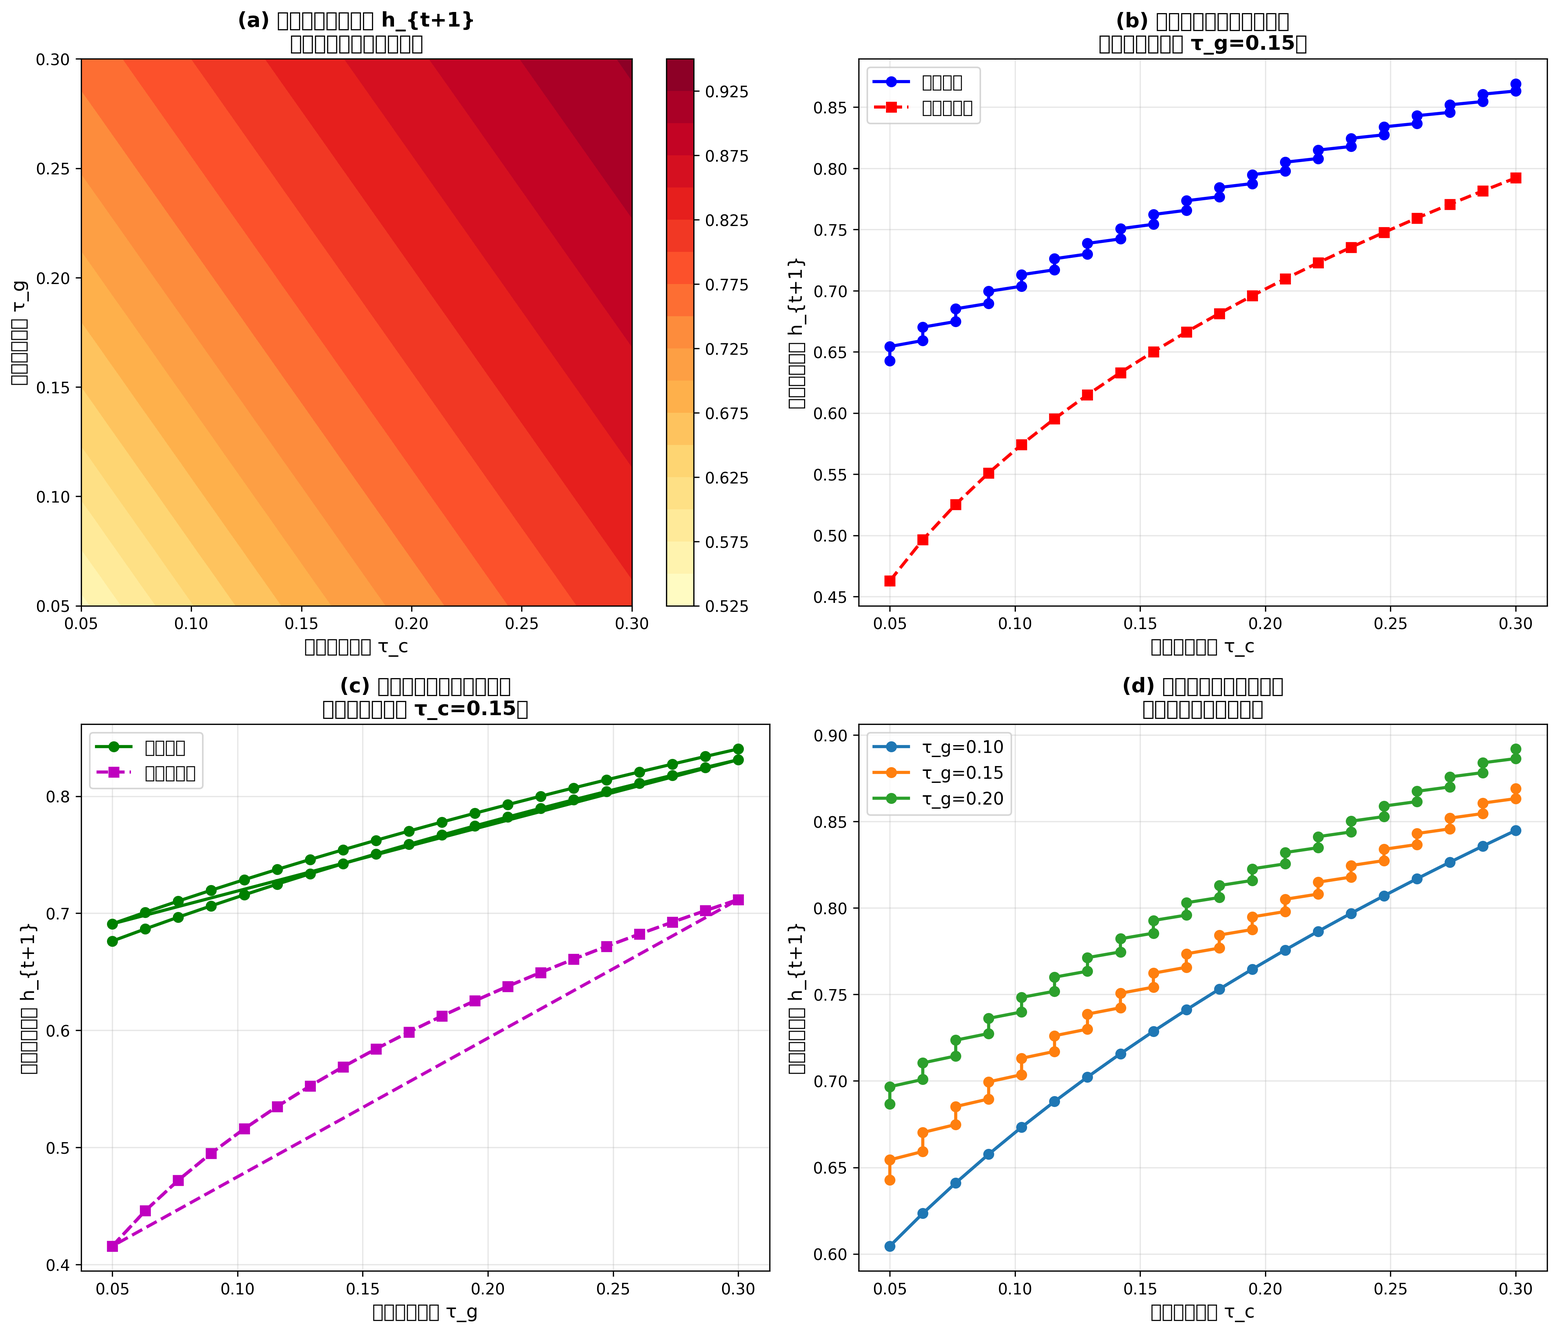
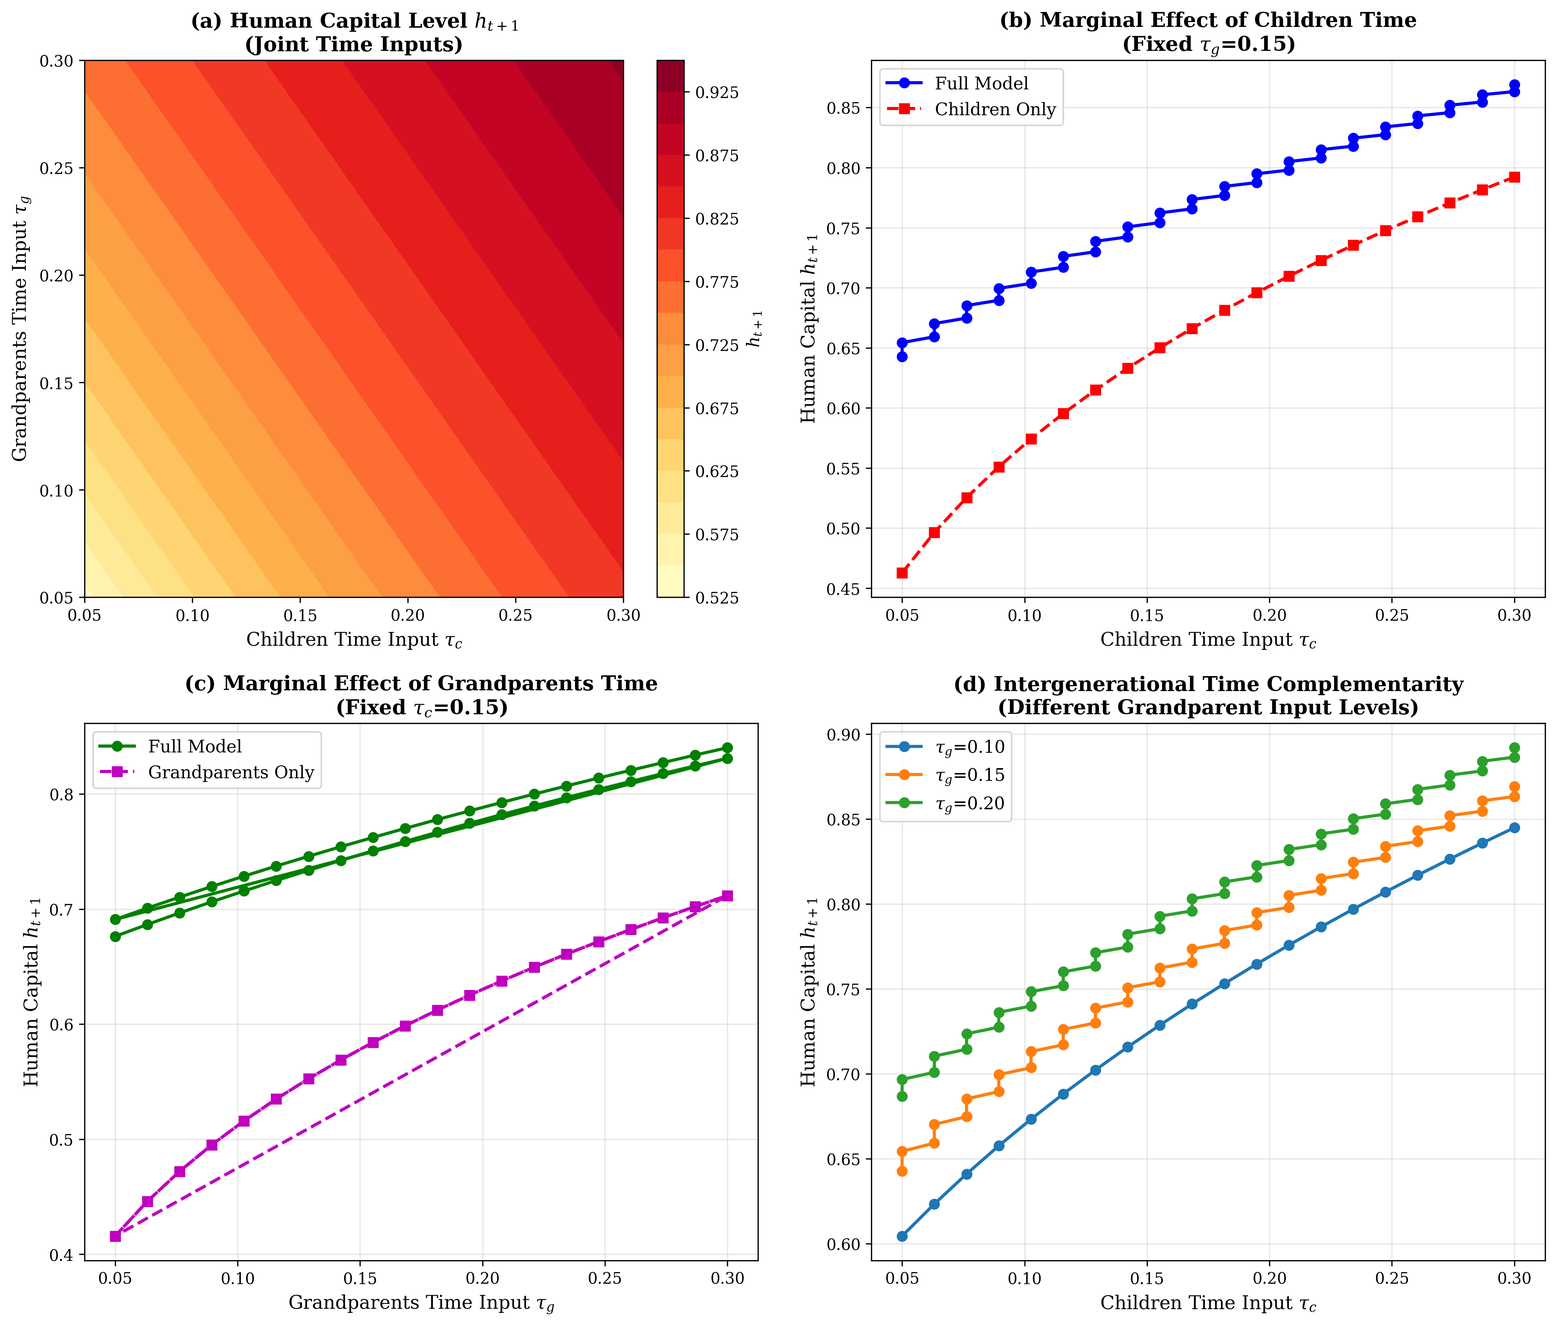
Update figures with English labels and fix axis display issues
Changes:
- Replace all Chinese labels with English in visualization functions
- Use LaTeX-style math text for Greek symbols (tau, rho, theta, etc.)
- Fix matplotlib font settings to avoid Chinese character display issues
- Update all plot titles, axis labels, and legends to English
- Improve figure clarity with proper mathematical notation

Figure updates:
- Figure 1: Human Capital Accumulation Sensitivity Analysis
  * (a) Heatmap showing h_{t+1} vs tau_c and tau_g
  * (b) Marginal effect of children time input
  * (c) Marginal effect of grandparents time input
  * (d) Intergenerational time complementarity

- Figure 2: Mediation Effects Decomposition
  * (a) Individual mediation effects over aging
  * (b) Total effect on saving rate
  * (c) Evolution of endogenous support variables
  * (d) Cumulative contribution of mediation effects

- Figure 3: Saving Rate and Population Structure
  * (a) Saving rate vs old-age dependency ratio
  * (b) Saving rate vs child dependency ratio

All visualizations now display correctly without font warnings.

diff --git a/model_simulation.py b/model_simulation.py
@@ -10,9 +10,10 @@ from matplotlib import font_manager
 import pandas as pd
 from scipy.optimize import fsolve
 
-# 设置中文字体支持
-matplotlib.rcParams['font.sans-serif'] = ['SimHei', 'DejaVu Sans']
+# Set matplotlib to use LaTeX-style math text
 matplotlib.rcParams['axes.unicode_minus'] = False
+plt.rcParams['font.family'] = 'serif'
+plt.rcParams['mathtext.fontset'] = 'dejavuserif'
 
 class OLGModel:
     """
@@ -322,239 +323,234 @@ class OLGModel:
 
 def plot_human_capital_sensitivity(df_hc):
     """
-    可视化1：人力资本积累的时间投入敏感性
+    Visualization 1: Human Capital Accumulation Sensitivity to Time Inputs
     """
     fig, axes = plt.subplots(2, 2, figsize=(14, 12))
 
-    # 准备3D数据
+    # Prepare 3D data
     tau_c_unique = sorted(df_hc['tau_c'].unique())
     tau_g_unique = sorted(df_hc['tau_g'].unique())
 
-    # 子图1：完整模型的热力图
+    # Subplot 1: Heatmap of full model
     pivot_full = df_hc.pivot_table(values='h_t_plus_1', index='tau_g', columns='tau_c')
     im1 = axes[0, 0].contourf(pivot_full.columns, pivot_full.index, pivot_full.values, levels=15, cmap='YlOrRd')
-    axes[0, 0].set_xlabel('子代时间投入 τ_c', fontsize=12)
-    axes[0, 0].set_ylabel('父代时间投入 τ_g', fontsize=12)
-    axes[0, 0].set_title('(a) 人力资本积累水平 h_{t+1}\n（子代与父代共同投入）', fontsize=13, fontweight='bold')
-    plt.colorbar(im1, ax=axes[0, 0])
+    axes[0, 0].set_xlabel(r'Children Time Input $\tau_c$', fontsize=12)
+    axes[0, 0].set_ylabel(r'Grandparents Time Input $\tau_g$', fontsize=12)
+    axes[0, 0].set_title(r'(a) Human Capital Level $h_{t+1}$' + '\n(Joint Time Inputs)', fontsize=13, fontweight='bold')
+    cbar1 = plt.colorbar(im1, ax=axes[0, 0])
+    cbar1.set_label(r'$h_{t+1}$', fontsize=11)
 
-    # 子图2：边际效应对比
-    # 固定一个维度，观察另一个维度的影响
+    # Subplot 2: Marginal effect comparison
     tau_g_fixed = 0.15
     df_fixed_g = df_hc[np.isclose(df_hc['tau_g'], tau_g_fixed, atol=0.01)]
-    axes[0, 1].plot(df_fixed_g['tau_c'], df_fixed_g['h_t_plus_1'], 'b-o', linewidth=2, label='完整模型')
-    axes[0, 1].plot(df_fixed_g['tau_c'], df_fixed_g['h_t_plus_1_only_c'], 'r--s', linewidth=2, label='仅子代投入')
-    axes[0, 1].set_xlabel('子代时间投入 τ_c', fontsize=12)
-    axes[0, 1].set_ylabel('人力资本水平 h_{t+1}', fontsize=12)
-    axes[0, 1].set_title(f'(b) 子代时间投入的边际效应\n（固定父代投入 τ_g={tau_g_fixed}）', fontsize=13, fontweight='bold')
+    axes[0, 1].plot(df_fixed_g['tau_c'], df_fixed_g['h_t_plus_1'], 'b-o', linewidth=2, label='Full Model')
+    axes[0, 1].plot(df_fixed_g['tau_c'], df_fixed_g['h_t_plus_1_only_c'], 'r--s', linewidth=2, label='Children Only')
+    axes[0, 1].set_xlabel(r'Children Time Input $\tau_c$', fontsize=12)
+    axes[0, 1].set_ylabel(r'Human Capital $h_{t+1}$', fontsize=12)
+    axes[0, 1].set_title(f'(b) Marginal Effect of Children Time\n' + r'(Fixed $\tau_g$=' + f'{tau_g_fixed})', fontsize=13, fontweight='bold')
     axes[0, 1].legend(fontsize=11)
     axes[0, 1].grid(True, alpha=0.3)
 
-    # 子图3：互补性分析
+    # Subplot 3: Complementarity analysis
     tau_c_fixed = 0.15
     df_fixed_c = df_hc[np.isclose(df_hc['tau_c'], tau_c_fixed, atol=0.01)]
-    axes[1, 0].plot(df_fixed_c['tau_g'], df_fixed_c['h_t_plus_1'], 'g-o', linewidth=2, label='完整模型')
-    axes[1, 0].plot(df_fixed_c['tau_g'], df_fixed_c['h_t_plus_1_only_g'], 'm--s', linewidth=2, label='仅父代投入')
-    axes[1, 0].set_xlabel('父代时间投入 τ_g', fontsize=12)
-    axes[1, 0].set_ylabel('人力资本水平 h_{t+1}', fontsize=12)
-    axes[1, 0].set_title(f'(c) 父代时间投入的边际效应\n（固定子代投入 τ_c={tau_c_fixed}）', fontsize=13, fontweight='bold')
+    axes[1, 0].plot(df_fixed_c['tau_g'], df_fixed_c['h_t_plus_1'], 'g-o', linewidth=2, label='Full Model')
+    axes[1, 0].plot(df_fixed_c['tau_g'], df_fixed_c['h_t_plus_1_only_g'], 'm--s', linewidth=2, label='Grandparents Only')
+    axes[1, 0].set_xlabel(r'Grandparents Time Input $\tau_g$', fontsize=12)
+    axes[1, 0].set_ylabel(r'Human Capital $h_{t+1}$', fontsize=12)
+    axes[1, 0].set_title(f'(c) Marginal Effect of Grandparents Time\n' + r'(Fixed $\tau_c$=' + f'{tau_c_fixed})', fontsize=13, fontweight='bold')
     axes[1, 0].legend(fontsize=11)
     axes[1, 0].grid(True, alpha=0.3)
 
-    # 子图4：效率差异展示（θ_c vs θ_g）
-    # 计算边际产出
-    df_sorted = df_hc.sort_values('tau_c')
+    # Subplot 4: Efficiency difference (θ_c vs θ_g)
     tau_g_levels = [0.10, 0.15, 0.20]
     for tau_g_val in tau_g_levels:
         df_subset = df_hc[np.isclose(df_hc['tau_g'], tau_g_val, atol=0.01)]
         df_subset = df_subset.sort_values('tau_c')
         axes[1, 1].plot(df_subset['tau_c'], df_subset['h_t_plus_1'],
-                       linewidth=2, marker='o', label=f'τ_g={tau_g_val:.2f}')
+                       linewidth=2, marker='o', label=r'$\tau_g$=' + f'{tau_g_val:.2f}')
 
-    axes[1, 1].set_xlabel('子代时间投入 τ_c', fontsize=12)
-    axes[1, 1].set_ylabel('人力资本水平 h_{t+1}', fontsize=12)
-    axes[1, 1].set_title('(d) 代际时间投入的互补性\n（不同父代投入水平）', fontsize=13, fontweight='bold')
+    axes[1, 1].set_xlabel(r'Children Time Input $\tau_c$', fontsize=12)
+    axes[1, 1].set_ylabel(r'Human Capital $h_{t+1}$', fontsize=12)
+    axes[1, 1].set_title('(d) Intergenerational Time Complementarity\n(Different Grandparent Input Levels)', fontsize=13, fontweight='bold')
     axes[1, 1].legend(fontsize=11)
     axes[1, 1].grid(True, alpha=0.3)
 
     plt.tight_layout()
     plt.savefig('/home/user/econ/figure1_human_capital.png', dpi=300, bbox_inches='tight')
-    print("✓ 图1已保存: figure1_human_capital.png")
+    print("✓ Figure 1 saved: figure1_human_capital.png")
     return fig
 
 
 def plot_mediation_effects(df_med):
     """
-    可视化2：中介效应分解
+    Visualization 2: Mediation Effects Decomposition
     """
     fig, axes = plt.subplots(2, 2, figsize=(15, 12))
 
-    # 子图1：各中介效应的演变
-    axes[0, 0].plot(df_med['D_t'], df_med['direct'], 'b-o', linewidth=2.5, markersize=6, label='直接效应')
-    axes[0, 0].plot(df_med['D_t'], df_med['expenditure_med'], 'r--s', linewidth=2.5, markersize=6, label='赡养支出中介（负）')
-    axes[0, 0].plot(df_med['D_t'], df_med['care_time_med'], 'g-.^', linewidth=2.5, markersize=6, label='照料时间中介（正）')
-    axes[0, 0].plot(df_med['D_t'], df_med['risk_med'], 'm:d', linewidth=2.5, markersize=6, label='赡养风险中介（正）')
+    # Subplot 1: Evolution of each mediation effect
+    axes[0, 0].plot(df_med['D_t'], df_med['direct'], 'b-o', linewidth=2.5, markersize=6, label='Direct Effect')
+    axes[0, 0].plot(df_med['D_t'], df_med['expenditure_med'], 'r--s', linewidth=2.5, markersize=6, label='Support Expenditure (neg)')
+    axes[0, 0].plot(df_med['D_t'], df_med['care_time_med'], 'g-.^', linewidth=2.5, markersize=6, label='Care Time (pos)')
+    axes[0, 0].plot(df_med['D_t'], df_med['risk_med'], 'm:d', linewidth=2.5, markersize=6, label='Support Risk (pos)')
     axes[0, 0].axhline(y=0, color='black', linestyle='-', linewidth=0.8, alpha=0.5)
-    axes[0, 0].set_xlabel('赡养比 D_t', fontsize=12)
-    axes[0, 0].set_ylabel('对储蓄率的影响', fontsize=12)
-    axes[0, 0].set_title('(a) 老龄化的中介效应分解', fontsize=13, fontweight='bold')
+    axes[0, 0].set_xlabel(r'Old-Age Dependency Ratio $D_t$', fontsize=12)
+    axes[0, 0].set_ylabel(r'Effect on Saving Rate $\rho_t$', fontsize=12)
+    axes[0, 0].set_title('(a) Mediation Effects of Population Aging', fontsize=13, fontweight='bold')
     axes[0, 0].legend(fontsize=10, loc='best')
     axes[0, 0].grid(True, alpha=0.3)
 
-    # 子图2：总效应及其分解
-    axes[0, 1].plot(df_med['D_t'], df_med['total'], 'k-o', linewidth=3, markersize=7, label='总效应')
+    # Subplot 2: Total effect and its decomposition
+    axes[0, 1].plot(df_med['D_t'], df_med['total'], 'k-o', linewidth=3, markersize=7, label='Total Effect')
     axes[0, 1].fill_between(df_med['D_t'], 0, df_med['total'], alpha=0.2, color='gray')
     axes[0, 1].axhline(y=0, color='black', linestyle='-', linewidth=0.8)
-    axes[0, 1].set_xlabel('赡养比 D_t', fontsize=12)
-    axes[0, 1].set_ylabel('对储蓄率的总效应', fontsize=12)
-    axes[0, 1].set_title('(b) 老龄化对储蓄率的总效应', fontsize=13, fontweight='bold')
+    axes[0, 1].set_xlabel(r'Old-Age Dependency Ratio $D_t$', fontsize=12)
+    axes[0, 1].set_ylabel(r'Total Effect on $\rho_t$', fontsize=12)
+    axes[0, 1].set_title('(b) Total Effect of Aging on Saving Rate', fontsize=13, fontweight='bold')
     axes[0, 1].legend(fontsize=11)
     axes[0, 1].grid(True, alpha=0.3)
 
-    # 子图3：内生变量的演变
+    # Subplot 3: Evolution of endogenous variables
     ax3_1 = axes[1, 0]
     ax3_2 = ax3_1.twinx()
 
-    line1 = ax3_1.plot(df_med['D_t'], df_med['tau_o'], 'b-o', linewidth=2.5, markersize=6, label='赡养支出比例 τ_o')
-    line2 = ax3_1.plot(df_med['D_t'], df_med['tau_o_time'], 'r--s', linewidth=2.5, markersize=6, label='照料时间 τ_o')
-    line3 = ax3_2.plot(df_med['D_t'], df_med['p'], 'g-.^', linewidth=2.5, markersize=6, label='存活概率 p')
+    line1 = ax3_1.plot(df_med['D_t'], df_med['tau_o'], 'b-o', linewidth=2.5, markersize=6, label=r'Support Ratio $\tau_o$')
+    line2 = ax3_1.plot(df_med['D_t'], df_med['tau_o_time'], 'r--s', linewidth=2.5, markersize=6, label=r'Care Time $\tau_o^{time}$')
+    line3 = ax3_2.plot(df_med['D_t'], df_med['p'], 'g-.^', linewidth=2.5, markersize=6, label='Survival Prob. p')
 
-    ax3_1.set_xlabel('赡养比 D_t', fontsize=12)
-    ax3_1.set_ylabel('赡养支出与照料时间', fontsize=12, color='black')
-    ax3_2.set_ylabel('存活概率', fontsize=12, color='g')
-    ax3_1.set_title('(c) 内生赡养行为变量的演变', fontsize=13, fontweight='bold')
+    ax3_1.set_xlabel(r'Old-Age Dependency Ratio $D_t$', fontsize=12)
+    ax3_1.set_ylabel('Support Ratio & Care Time', fontsize=12, color='black')
+    ax3_2.set_ylabel('Survival Probability', fontsize=12, color='g')
+    ax3_1.set_title('(c) Evolution of Endogenous Support Variables', fontsize=13, fontweight='bold')
 
     lines = line1 + line2 + line3
     labels = [l.get_label() for l in lines]
     ax3_1.legend(lines, labels, fontsize=10, loc='upper left')
     ax3_1.grid(True, alpha=0.3)
 
-    # 子图4：堆叠面积图展示中介效应贡献
-    # 为了堆叠，需要将负值和正值分开
-    positive_effects = np.maximum(df_med['direct'], 0) + np.maximum(df_med['care_time_med'], 0) + np.maximum(df_med['risk_med'], 0)
-    negative_effects = np.minimum(df_med['expenditure_med'], 0)
-
-    axes[1, 1].fill_between(df_med['D_t'], 0, df_med['direct'], alpha=0.6, label='直接效应', color='#1f77b4')
+    # Subplot 4: Stacked area chart showing mediation contributions
+    axes[1, 1].fill_between(df_med['D_t'], 0, df_med['direct'], alpha=0.6, label='Direct Effect', color='#1f77b4')
     axes[1, 1].fill_between(df_med['D_t'], df_med['direct'],
                            df_med['direct'] + df_med['care_time_med'],
-                           alpha=0.6, label='照料时间中介', color='#2ca02c')
+                           alpha=0.6, label='Care Time Mediation', color='#2ca02c')
     axes[1, 1].fill_between(df_med['D_t'], df_med['direct'] + df_med['care_time_med'],
                            df_med['direct'] + df_med['care_time_med'] + df_med['risk_med'],
-                           alpha=0.6, label='赡养风险中介', color='#9467bd')
+                           alpha=0.6, label='Support Risk Mediation', color='#9467bd')
     axes[1, 1].fill_between(df_med['D_t'], 0, df_med['expenditure_med'],
-                           alpha=0.6, label='赡养支出中介', color='#d62728')
-    axes[1, 1].plot(df_med['D_t'], df_med['total'], 'k-', linewidth=2.5, label='总效应')
+                           alpha=0.6, label='Expenditure Mediation', color='#d62728')
+    axes[1, 1].plot(df_med['D_t'], df_med['total'], 'k-', linewidth=2.5, label='Total Effect')
 
     axes[1, 1].axhline(y=0, color='black', linestyle='-', linewidth=0.8)
-    axes[1, 1].set_xlabel('赡养比 D_t', fontsize=12)
-    axes[1, 1].set_ylabel('对储蓄率的影响', fontsize=12)
-    axes[1, 1].set_title('(d) 中介效应的累积贡献', fontsize=13, fontweight='bold')
+    axes[1, 1].set_xlabel(r'Old-Age Dependency Ratio $D_t$', fontsize=12)
+    axes[1, 1].set_ylabel(r'Effect on $\rho_t$', fontsize=12)
+    axes[1, 1].set_title('(d) Cumulative Contribution of Mediation Effects', fontsize=13, fontweight='bold')
     axes[1, 1].legend(fontsize=10, loc='best')
     axes[1, 1].grid(True, alpha=0.3)
 
     plt.tight_layout()
     plt.savefig('/home/user/econ/figure2_mediation_effects.png', dpi=300, bbox_inches='tight')
-    print("✓ 图2已保存: figure2_mediation_effects.png")
+    print("✓ Figure 2 saved: figure2_mediation_effects.png")
     return fig
 
 
 def plot_saving_rate_aging(df_saving):
     """
-    可视化3：储蓄率与人口结构
+    Visualization 3: Saving Rate and Population Structure
     """
     fig, axes = plt.subplots(1, 2, figsize=(14, 6))
 
-    # 子图1：储蓄率与赡养比
+    # Subplot 1: Saving rate vs old-age dependency ratio
     axes[0].plot(df_saving['D_t'], df_saving['saving_rate'], 'b-o', linewidth=2.5, markersize=7)
     axes[0].fill_between(df_saving['D_t'], 0, df_saving['saving_rate'], alpha=0.2, color='blue')
-    axes[0].set_xlabel('赡养比 D_t', fontsize=12)
-    axes[0].set_ylabel('家庭储蓄率 ρ_t', fontsize=12)
-    axes[0].set_title('(a) 储蓄率与老龄化程度', fontsize=13, fontweight='bold')
+    axes[0].set_xlabel(r'Old-Age Dependency Ratio $D_t$', fontsize=12)
+    axes[0].set_ylabel(r'Household Saving Rate $\rho_t$', fontsize=12)
+    axes[0].set_title('(a) Saving Rate and Population Aging', fontsize=13, fontweight='bold')
     axes[0].grid(True, alpha=0.3)
 
-    # 子图2：储蓄率与抚养比（反向关系）
+    # Subplot 2: Saving rate vs child dependency ratio (inverse relationship)
     axes[1].plot(df_saving['C_t'], df_saving['saving_rate'], 'r-s', linewidth=2.5, markersize=7)
     axes[1].fill_between(df_saving['C_t'], 0, df_saving['saving_rate'], alpha=0.2, color='red')
-    axes[1].set_xlabel('抚养比 C_t', fontsize=12)
-    axes[1].set_ylabel('家庭储蓄率 ρ_t', fontsize=12)
-    axes[1].set_title('(b) 储蓄率与少子化程度', fontsize=13, fontweight='bold')
+    axes[1].set_xlabel(r'Child Dependency Ratio $C_t$', fontsize=12)
+    axes[1].set_ylabel(r'Household Saving Rate $\rho_t$', fontsize=12)
+    axes[1].set_title('(b) Saving Rate and Fertility Decline', fontsize=13, fontweight='bold')
     axes[1].grid(True, alpha=0.3)
 
     plt.tight_layout()
     plt.savefig('/home/user/econ/figure3_saving_rate.png', dpi=300, bbox_inches='tight')
-    print("✓ 图3已保存: figure3_saving_rate.png")
+    print("✓ Figure 3 saved: figure3_saving_rate.png")
     return fig
 
 
 def main():
     """
-    主函数：运行所有数值模拟
+    Main Function: Run All Numerical Simulations
     """
     print("="*60)
-    print("数值模拟：人力资本积累与家庭赡养的中介效应")
+    print("Numerical Simulation: Human Capital Accumulation and")
+    print("                      Mediation Effects of Family Support")
     print("="*60)
 
-    # 初始化模型
+    # Initialize model
     model = OLGModel()
 
-    print("\n[1] 模拟人力资本积累对时间投入的敏感性...")
+    print("\n[1] Simulating human capital sensitivity to time inputs...")
     df_hc = model.simulate_human_capital_sensitivity()
-    print(f"    完成！生成{len(df_hc)}个数据点")
+    print(f"    Done! Generated {len(df_hc)} data points")
 
-    print("\n[2] 模拟中介效应随老龄化程度的变化...")
+    print("\n[2] Simulating mediation effects with aging...")
     df_med = model.simulate_mediation_effects()
-    print(f"    完成！生成{len(df_med)}个数据点")
+    print(f"    Done! Generated {len(df_med)} data points")
 
-    print("\n[3] 模拟储蓄率随人口结构的变化...")
+    print("\n[3] Simulating saving rate with population structure...")
     df_saving = model.simulate_saving_rate_aging()
-    print(f"    完成！生成{len(df_saving)}个数据点")
+    print(f"    Done! Generated {len(df_saving)} data points")
 
     print("\n" + "="*60)
-    print("生成可视化图表...")
+    print("Generating visualizations...")
     print("="*60)
 
-    # 生成图表
+    # Generate figures
     fig1 = plot_human_capital_sensitivity(df_hc)
     fig2 = plot_mediation_effects(df_med)
     fig3 = plot_saving_rate_aging(df_saving)
 
-    # 保存数据
-    print("\n保存模拟数据...")
+    # Save data
+    print("\nSaving simulation data...")
     df_hc.to_csv('/home/user/econ/data_human_capital.csv', index=False)
-    print("✓ 数据已保存: data_human_capital.csv")
+    print("✓ Data saved: data_human_capital.csv")
 
     df_med.to_csv('/home/user/econ/data_mediation_effects.csv', index=False)
-    print("✓ 数据已保存: data_mediation_effects.csv")
+    print("✓ Data saved: data_mediation_effects.csv")
 
     df_saving.to_csv('/home/user/econ/data_saving_rate.csv', index=False)
-    print("✓ 数据已保存: data_saving_rate.csv")
+    print("✓ Data saved: data_saving_rate.csv")
 
     print("\n" + "="*60)
-    print("模拟结果总结")
+    print("SIMULATION RESULTS SUMMARY")
     print("="*60)
 
-    # 输出关键结果
-    print("\n【1. 人力资本积累】")
-    print(f"  • 子代效率参数 θ_c = {model.theta_c:.2f}")
-    print(f"  • 父代效率参数 θ_g = {model.theta_g:.2f}")
-    print(f"  • 效率比 θ_c/θ_g = {model.theta_c/model.theta_g:.2f}")
-    print(f"  • 人力资本范围: [{df_hc['h_t_plus_1'].min():.3f}, {df_hc['h_t_plus_1'].max():.3f}]")
+    # Output key results
+    print("\n[1. Human Capital Accumulation]")
+    print(f"  • Children efficiency parameter theta_c = {model.theta_c:.2f}")
+    print(f"  • Grandparents efficiency parameter theta_g = {model.theta_g:.2f}")
+    print(f"  • Efficiency ratio theta_c/theta_g = {model.theta_c/model.theta_g:.2f}")
+    print(f"  • Human capital range: [{df_hc['h_t_plus_1'].min():.3f}, {df_hc['h_t_plus_1'].max():.3f}]")
 
-    print("\n【2. 中介效应分解】（在赡养比D_t=1.0时）")
+    print("\n[2. Mediation Effects Decomposition] (at D_t=1.0)")
     idx_mid = len(df_med) // 2
-    print(f"  • 直接效应: {df_med.loc[idx_mid, 'direct']:.5f}")
-    print(f"  • 赡养支出中介: {df_med.loc[idx_mid, 'expenditure_med']:.5f} (负向)")
-    print(f"  • 照料时间中介: {df_med.loc[idx_mid, 'care_time_med']:.5f} (正向)")
-    print(f"  • 赡养风险中介: {df_med.loc[idx_mid, 'risk_med']:.5f} (正向)")
-    print(f"  • 总效应: {df_med.loc[idx_mid, 'total']:.5f}")
+    print(f"  • Direct effect: {df_med.loc[idx_mid, 'direct']:.5f}")
+    print(f"  • Support expenditure mediation: {df_med.loc[idx_mid, 'expenditure_med']:.5f} (negative)")
+    print(f"  • Care time mediation: {df_med.loc[idx_mid, 'care_time_med']:.5f} (positive)")
+    print(f"  • Support risk mediation: {df_med.loc[idx_mid, 'risk_med']:.5f} (positive)")
+    print(f"  • Total effect: {df_med.loc[idx_mid, 'total']:.5f}")
 
-    print("\n【3. 储蓄率】")
-    print(f"  • 最低储蓄率: {df_saving['saving_rate'].min():.4f} (低度老龄化)")
-    print(f"  • 最高储蓄率: {df_saving['saving_rate'].max():.4f} (高度老龄化)")
-    print(f"  • 平均储蓄率: {df_saving['saving_rate'].mean():.4f}")
+    print("\n[3. Saving Rate]")
+    print(f"  • Minimum saving rate: {df_saving['saving_rate'].min():.4f} (low aging)")
+    print(f"  • Maximum saving rate: {df_saving['saving_rate'].max():.4f} (high aging)")
+    print(f"  • Average saving rate: {df_saving['saving_rate'].mean():.4f}")
 
     print("\n" + "="*60)
-    print("所有模拟完成！")
+    print("ALL SIMULATIONS COMPLETED!")
     print("="*60)
 
     return df_hc, df_med, df_saving
